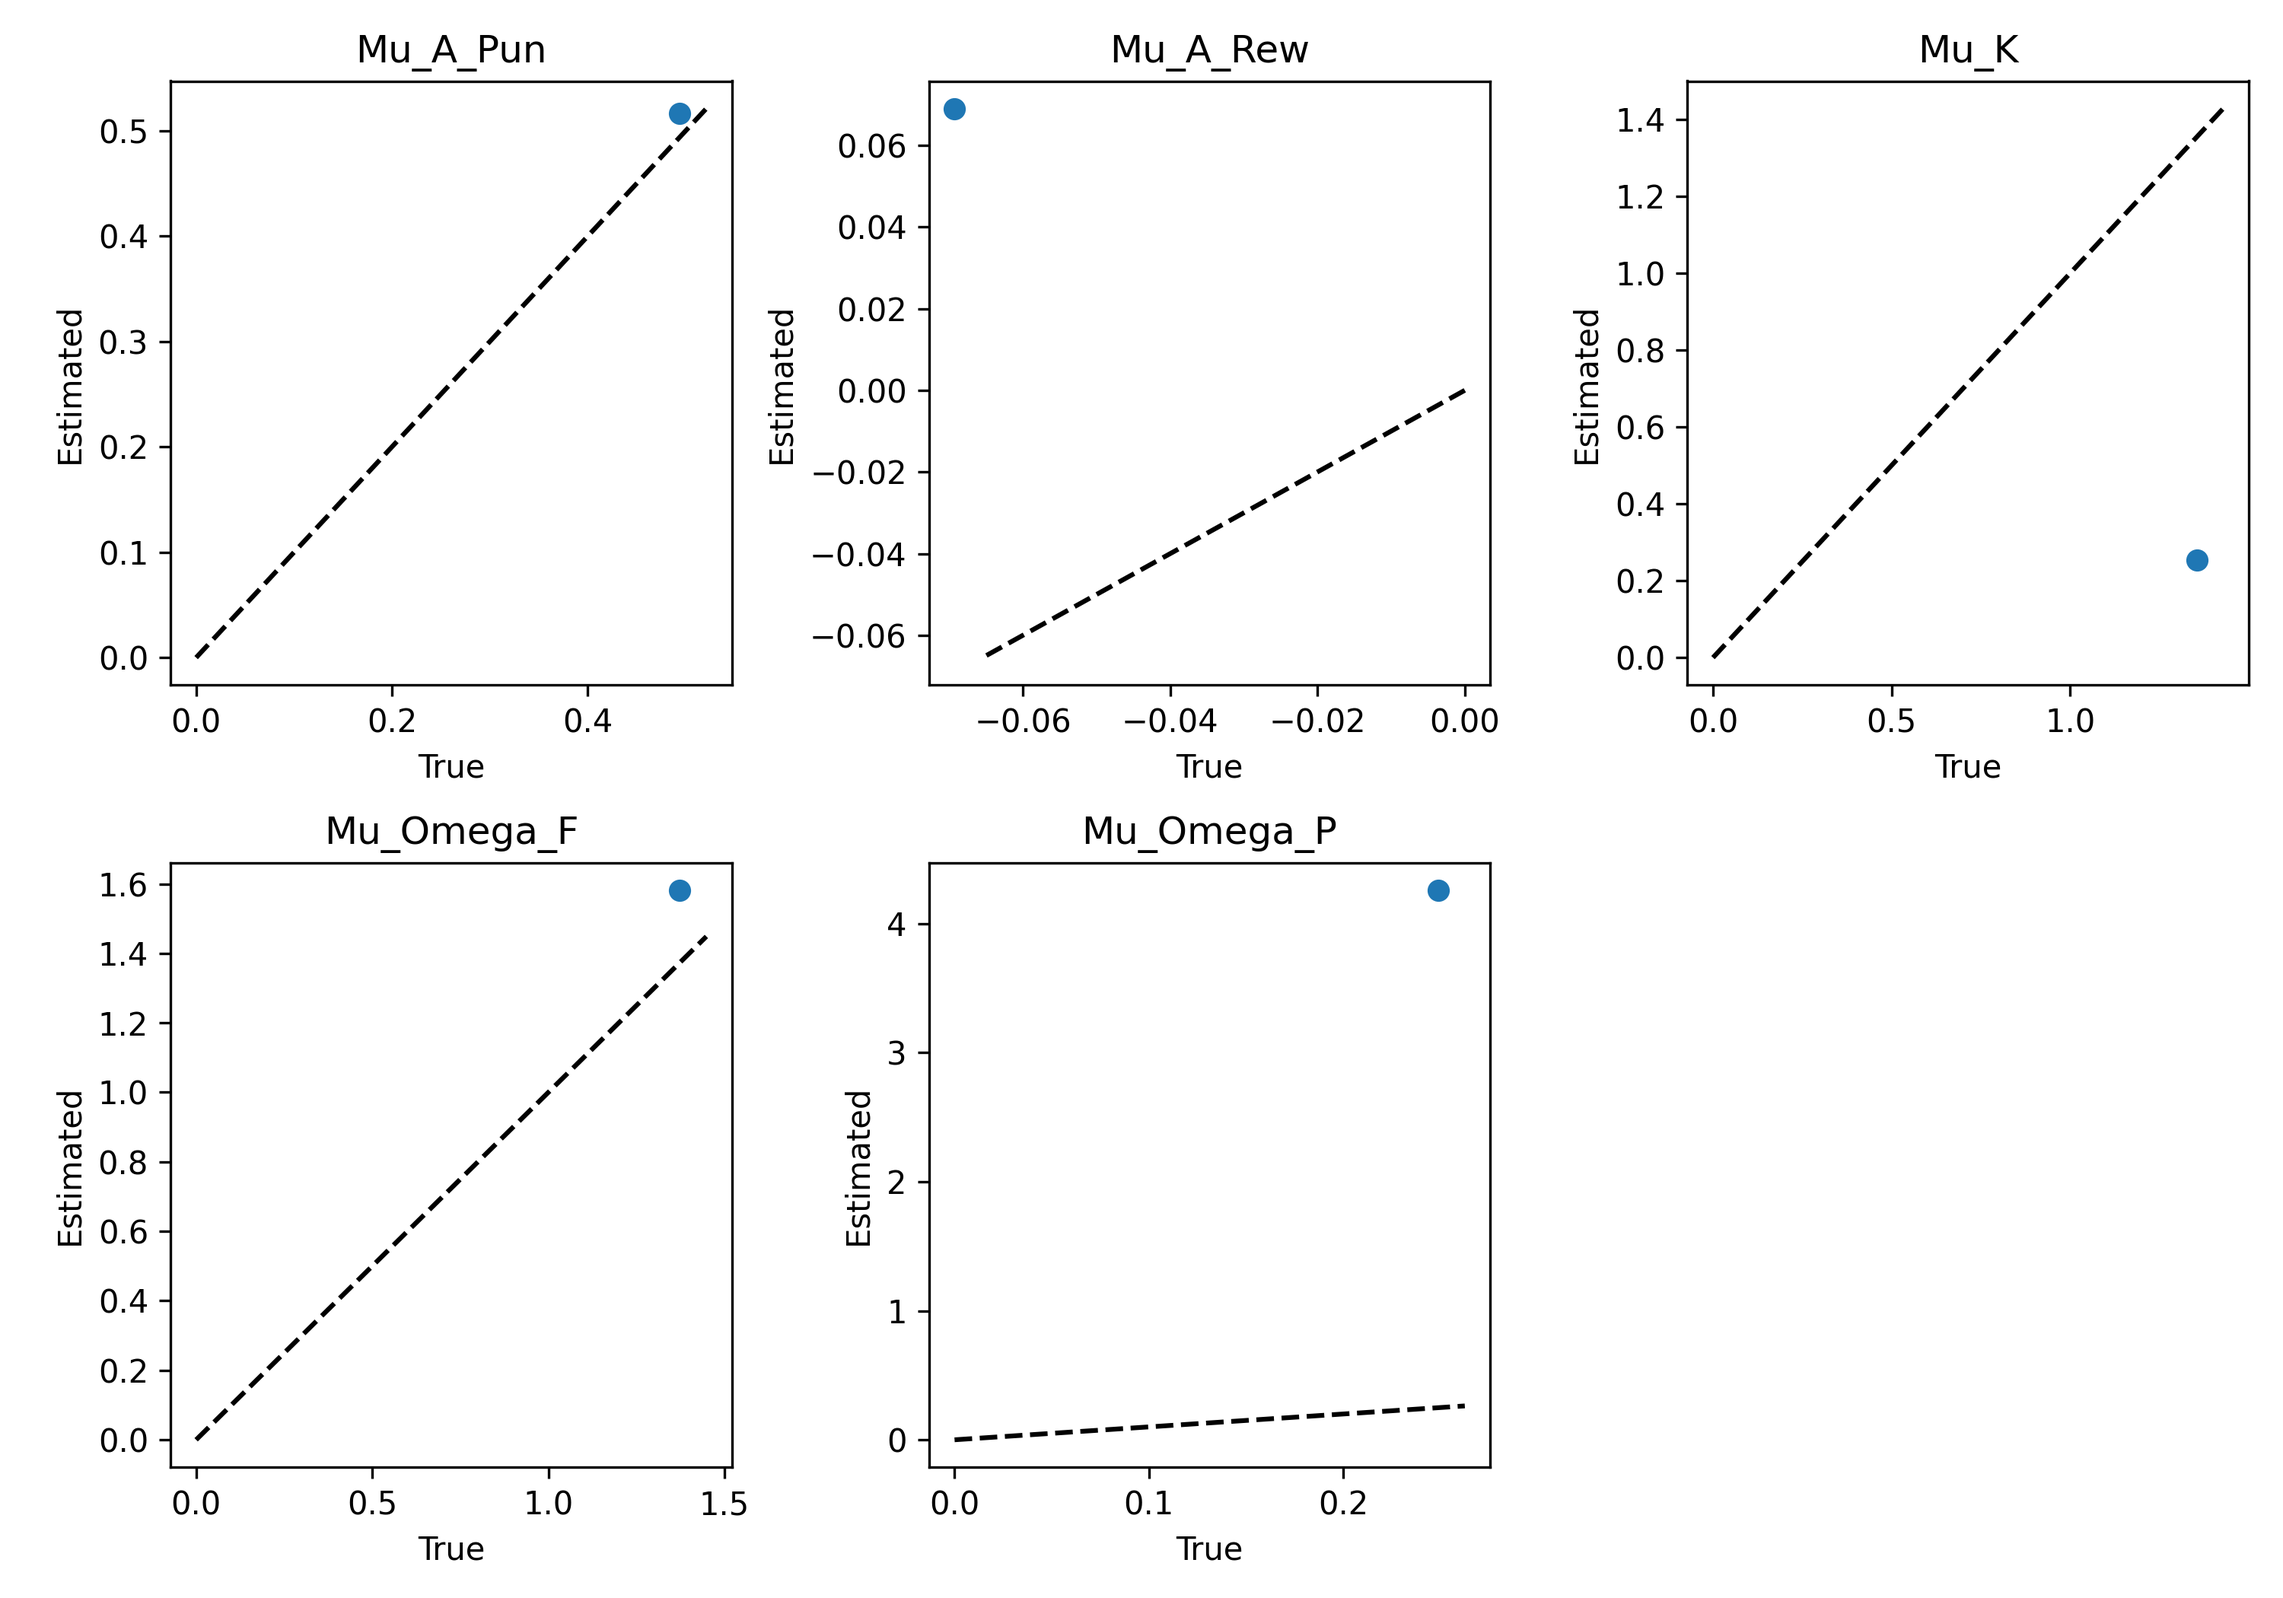
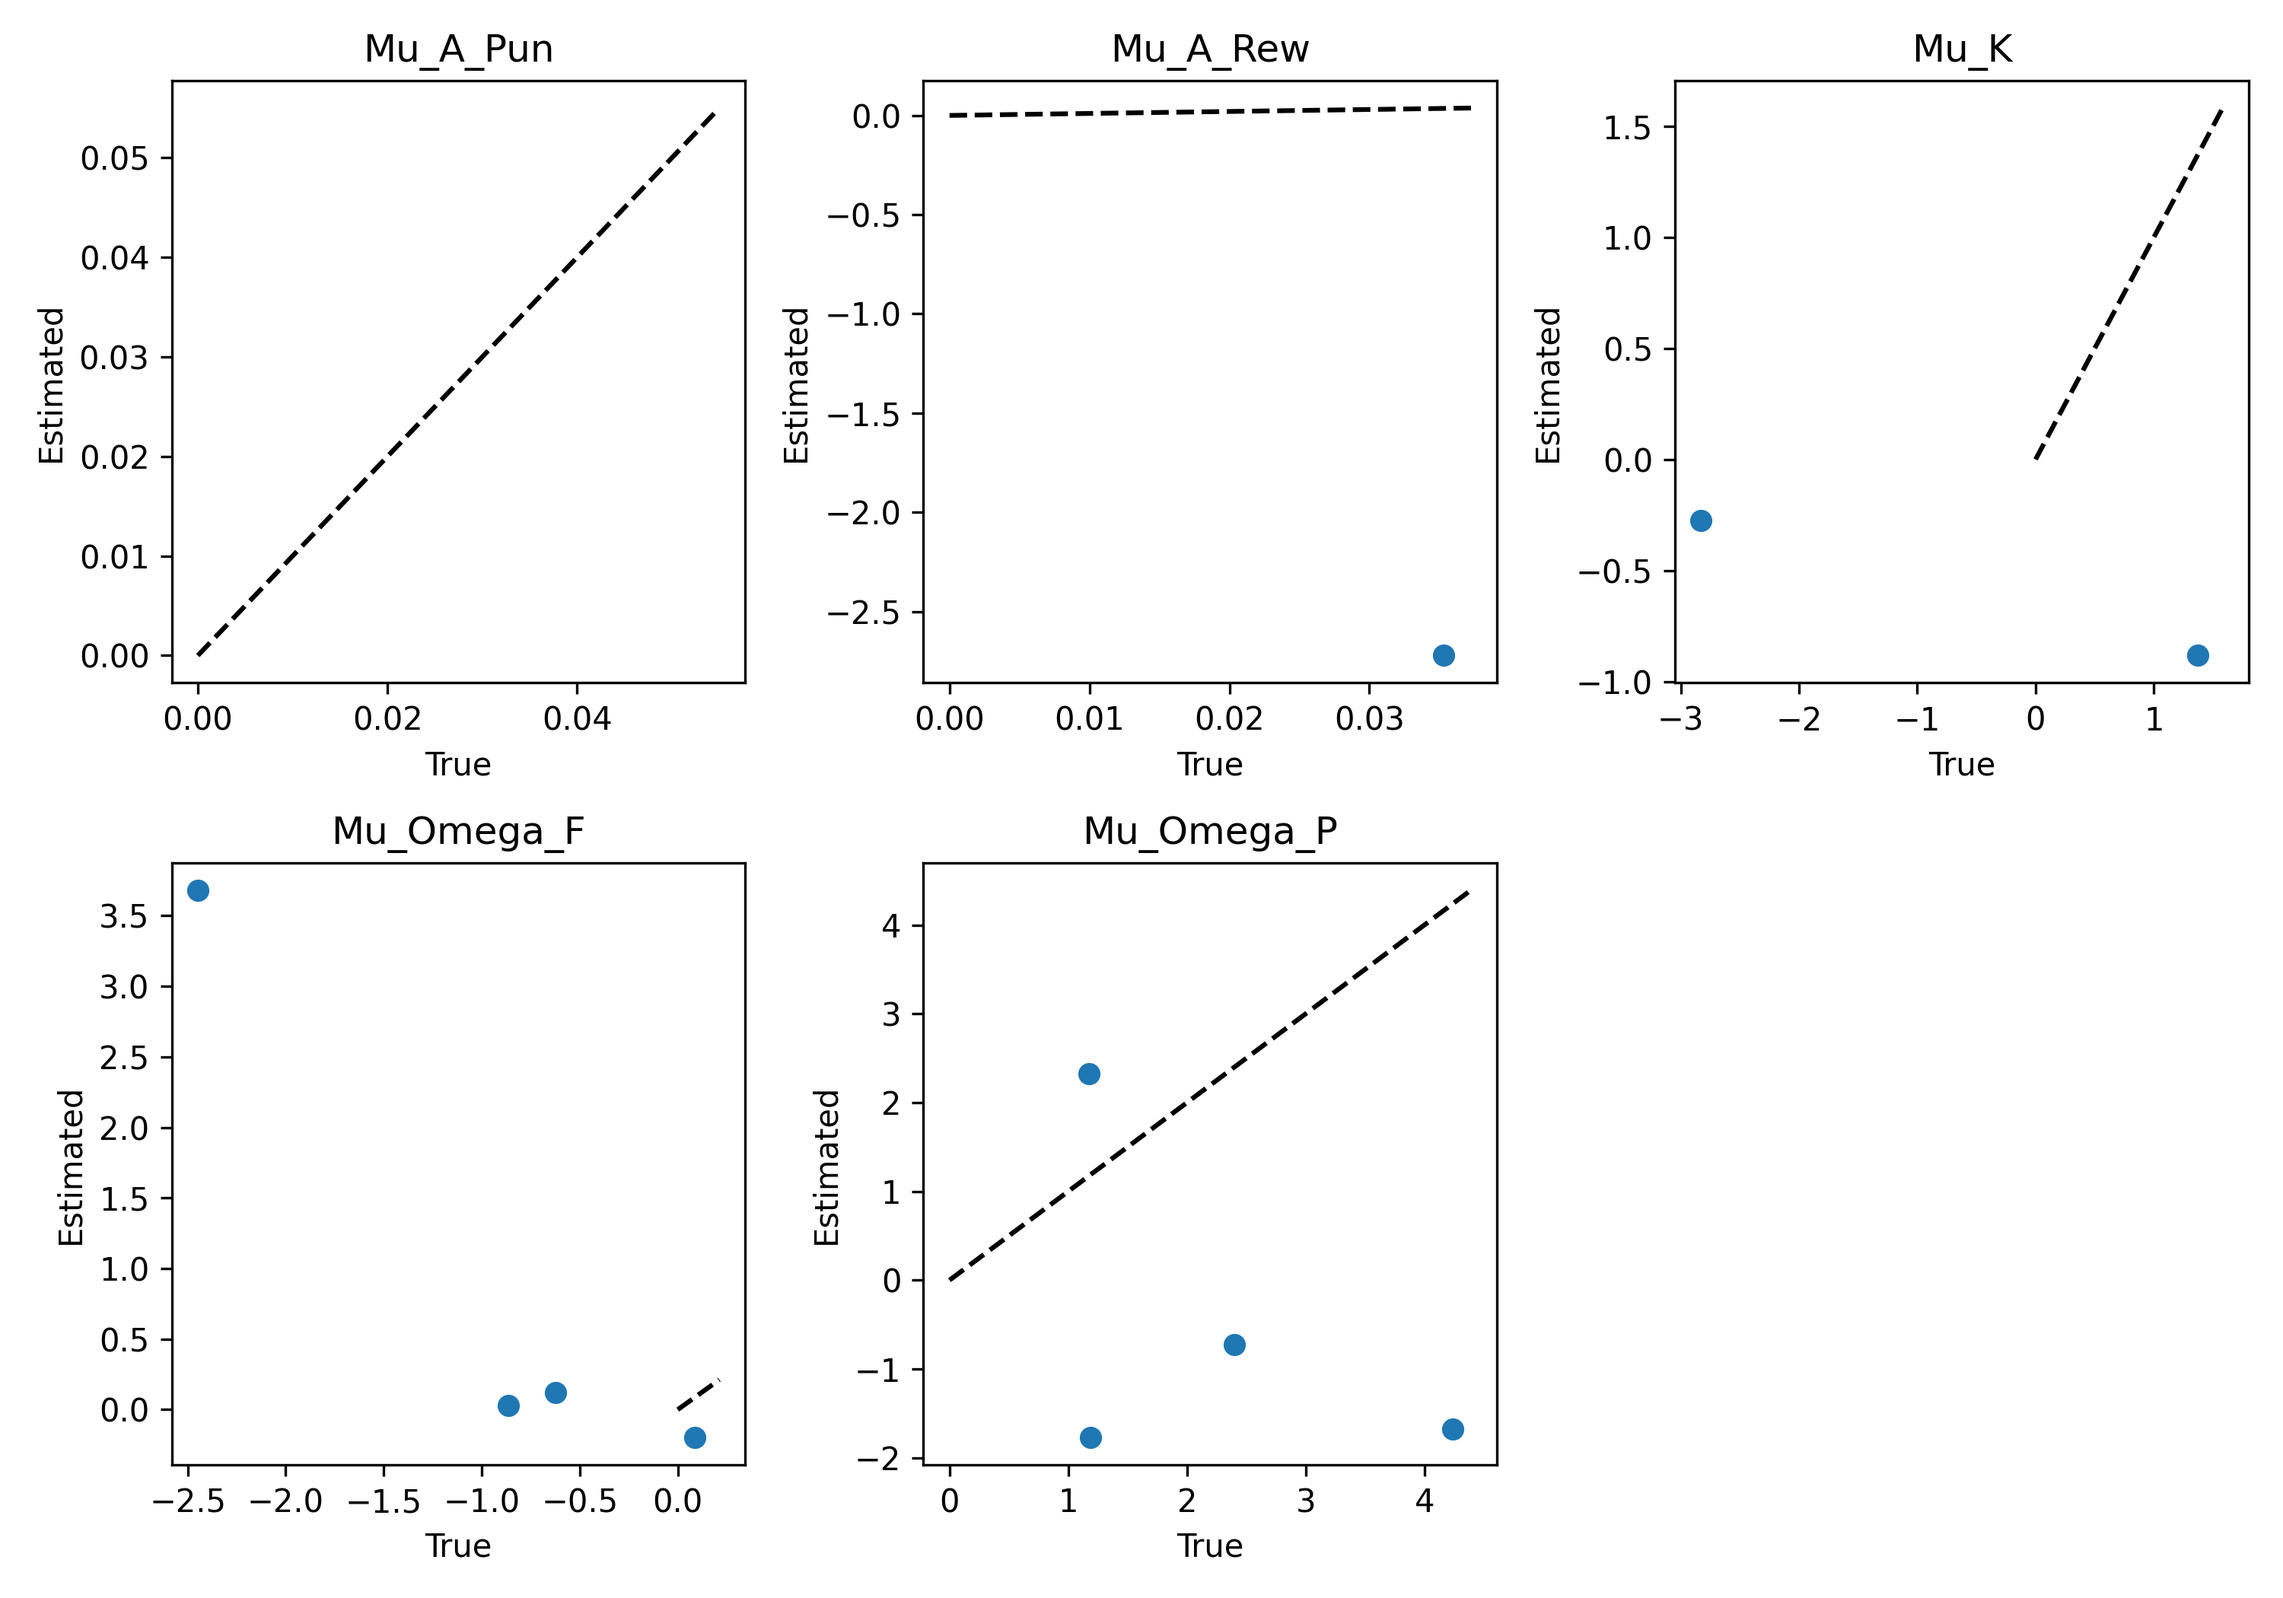
fix group issue

diff --git a/recovery/plot.py b/recovery/plot.py
@@ -118,8 +118,8 @@ if __name__ == "__main__":
     for key in data_rec.keys():
         
         # group 1 is modelled as -0.5 and group 2 as 0.5
-        group_1 = data_rec[key]["group2"] # check if this is correct or if it should be the other way around
-        group_2 = data_rec[key]["group1"] # check if this is correct or if it should be the other way around
+        group_1 = data_rec[key]["group1"] # check if this is correct or if it should be the other way around
+        group_2 = data_rec[key]["group2"] # check if this is correct or if it should be the other way around
 
         # true group differences
         mu_a_rew_t.append(data_sim[group_1]["mu_a_rew"] - data_sim[group_2]["mu_a_rew"])
@@ -139,11 +139,11 @@ if __name__ == "__main__":
         a_rew = inv_logit(X * a_rew_betas + a_rew_subj[subject]);
         a_pun = inv_logit(X * a_pun_betas + a_pun_subj[subject]);
         """
-        recovered_mu_K = inv_logit(data_rec[key]["slope_K"])
+        recovered_mu_K = logit(data_rec[key]["slope_K"])
         recovered_mu_omega_f =  data_rec[key]["slope_omega_f"]
         recovered_mu_omega_p = data_rec[key]["slope_omega_p"]
-        recovered_mu_a_rew = inv_logit(data_rec[key]["slope_a_rew"])
-        recovered_mu_a_pun = inv_logit(data_rec[key]["slope_a_pun"])
+        recovered_mu_a_rew = logit(data_rec[key]["slope_a_rew"])
+        recovered_mu_a_pun = logit(data_rec[key]["slope_a_pun"])
 
         print(recovered_mu_K, recovered_mu_omega_f, recovered_mu_omega_p, recovered_mu_a_rew, recovered_mu_a_pun)
 
